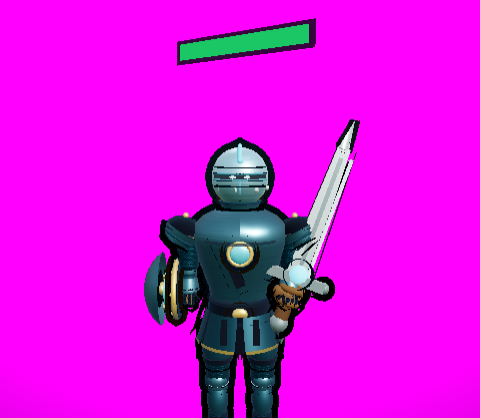
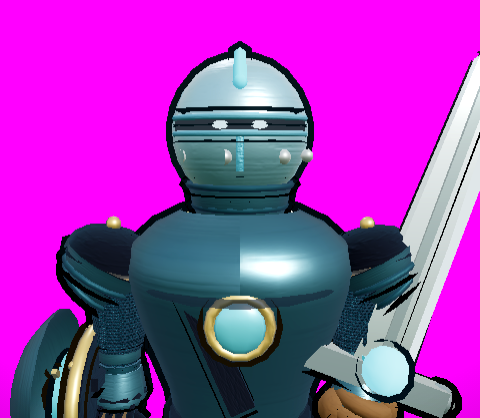
고젯을 3단 라메 스택으로 — 단 경계 테 + 목구멍 암부, 높이비 0.274 → 0.305
6차 비평가 재지적 ㉦ 처리. 진단이 "높이가 아니라 단(段)과 암부가 모자란다" 였으므로 그 둘을 넣었다:
3단 라메 + 단마다 경계 테, 목 구멍 안쪽 니어블랙 원통(안감은 라메 벽 바로 뒤라 정면에서 안 보인다 —
어두워야 하는 건 구멍 안이다), 총 높이를 머리 높이(투구 포함 0.420)의 0.305 배로.

🚨 처방 중 '아래로 갈수록 넓어짐'은 실측으로 기각했다 — 다음 세션은 다시 뒤집지 말 것.
아래로 넓어지는 스택은 요크 안쪽으로 들어가 칼라를 통째로 죽인다.
probe-collar 대응 비교: 종전(위로 벌어짐) 992px → 아래로 넓어짐 10px → 위로 벌어지는 3단 1494px.

🚨 그리고 ㉦ 는 단독으로 못 푼다. 지표는 다 통과했지만 정면 캡처는 여전히 투구가 몸통에 얹힌 그림이다 —
머리 밑면(spine y 0.514)과 몸통 윗면이 같은 높이라 목이 들어갈 세로 공간 자체가 없다.
잔여는 ㉢(비례) 소관으로 넘긴다.

probe-collar.js 를 판정기로 확장(단수·경계테 / 높이비 / 목구멍 암부 / 매몰 방지선 800px).
같이 잡은 프로브 버그 3건: ⓐ 파인더가 구현 형태(LatheGeometry·position.y===0.547)에 묶여 있어
라메 스택으로 바꾸자 한 개도 못 찾았다(못 찾음과 기여 0px 이 구분 안 된다) ⓑ 회전한 메시를
지오메트리 bbox + position.y 로 재면 틀린다 ⓒ update 를 그냥 비우면 포즈가 안 얼어 907/0px 로 흔들린다.
spanY 는 칼라 그림자까지 차분에 섞여 37/207px 로 못 믿는다 — 판정은 contribPx 로.

회귀: probe-screens-errors 31/31 에러 0, probe-pauldron·probe-tasset 통과, probe-cape-clip 관통 0,
probe-ride-ground 25종, test-hitfx·test-herodeath 통과. 명도 델타 48.1 · dark 47.8% · clip 0%.

diff --git a/web/tools/probe-collar.js b/web/tools/probe-collar.js
@@ -30,20 +30,62 @@ const INDEX = 'file://' + require('path').resolve(__dirname, '../index.html');
         Scene3D.anims = [];
         Scene3D.walking = false;
         Scene3D.clearEnemies(); if (typeof Combat !== 'undefined') Combat.enemies = [];
-        ProChar.update = () => {};                       // 포즈 고정 — 안 하면 같은 코드로 값이 흔들린다
+        // 포즈 고정 — ⚠ update 를 그냥 비우면 **마지막 프레임 위상이 그대로 남아** 런마다 값이 흔들린다
+        //    (이 프로브에서 기여 픽셀이 907px / 0px 로 오갔다). 반드시 t=0 로 스냅한 뒤 비울 것.
         const R = Scene3D.heroRig;
-        R._t = 0; R._idleT = 0;
+        R._clip = ProChar.CLIPS.Idle; R._t = 0; R._once = false; R._speed = 1; R._idleT = 0;
+        ProChar.update(R, 0);
+        ProChar.update = () => {};
+        R.group.updateWorldMatrix(true, true);
         if (Scene3D.heroHpG) Scene3D.heroHpG.visible = false;
         Scene3D._trailOn = false; Scene3D.trailPts = [];
         if (Scene3D.trailMesh) Scene3D.trailMesh.visible = false;
 
-        // 칼라 3파츠를 이름 대신 **기하 특징**으로 찾는다 — spine 직속 자식 중 y 0.43~0.55 에 걸치는 것.
-        // (LatheGeometry 2개 + Torus 1개를 spine.add(collar, collarIn, collarRim) 했다.)
+        // 칼라 파츠를 이름 대신 **기하 특징**으로 찾는다 — spine 직속 자식 중 로컬 y 0.42~0.56 대역에
+        // 들어오고 반경 0.16 이하인 메시.
+        // ⚠ 종전 판정은 `position.y === 0.547` 과 `LatheGeometry` 라는 **그때의 구현 형태**에 묶여 있었다.
+        //    2026-08-18 에 칼라를 3단 라메 스택(개방 CylinderGeometry + Torus 테)으로 바꾸자 한 개도 못 찾았다.
+        //    구현이 바뀌면 못 찾는 파인더는 '기여 0px'과 구분이 안 되므로, 형태가 아니라 **위치**로 찾는다.
         const spine = R.bones.spine;
-        const collar = spine.children.filter(o => o.isMesh && o.position.y === 0.547
-            || (o.isMesh && o.geometry && o.geometry.type === 'LatheGeometry' && o.geometry.boundingBox === null
-                && (o.geometry.computeBoundingBox(), o.geometry.boundingBox.max.y > 0.52 && o.geometry.boundingBox.min.y > 0.40)));
+        const inBand = (o) => {
+            if (!o.isMesh || !o.geometry || o.userData.isOutline) return false;
+            if (!o.geometry.boundingBox) o.geometry.computeBoundingBox();
+            // ⚠ 지오메트리 bbox 에 position.y 만 더하면 **회전한 메시가 틀리게 잡힌다** — 단 경계 테는
+            //    rotation.x=π/2 인 토러스라, 회전 전 bbox 의 y 범위가 ±(major+tube) 로 잡혀 대역 밖으로
+            //    밀려나고 '테 0개'로 읽혔다. 8정점을 o.matrix(=오브젝트→spine 로컬)로 옮겨 재야 한다.
+            o.updateMatrix();
+            const gb = o.geometry.boundingBox;
+            const v = new THREE.Vector3();
+            let y0 = Infinity, y1 = -Infinity, r = 0;
+            for (let i = 0; i < 8; i++) {
+                v.set(i & 1 ? gb.max.x : gb.min.x, i & 2 ? gb.max.y : gb.min.y, i & 4 ? gb.max.z : gb.min.z).applyMatrix4(o.matrix);
+                y0 = Math.min(y0, v.y); y1 = Math.max(y1, v.y);
+                r = Math.max(r, Math.abs(v.x), Math.abs(v.z));
+            }
+            // ⚠ 대역을 칼라 치수에 딱 맞추면 안 된다 — 치수를 조금만 늘려도 파츠가 조용히 빠지고
+            //    '기여 0px(죽은 지오메트리)'과 구별이 안 된다(실제로 겪었다). 넉넉히 잡고 반경으로 거른다
+            //    (흉갑·요크는 반경 0.16 을 넘으므로 대역을 넓혀도 안 걸린다).
+            return y0 > 0.38 && y1 < 0.60 && r < 0.16;
+        };
+        const collar = spine.children.filter(inBand);
         if (!collar.length) return { error: '칼라 파츠를 못 찾음 — 판정 불가' };
+        // 단(段) 수 = 개방 실린더 라메 중 **판금 본체**만.
+        // ⚠ 니어블랙 안감·목구멍(deepLine)도 개방 실린더라 그냥 세면 단수가 부풀어 오른다(실제로 4~5단으로 셌다).
+        //    그 재질들은 DoubleSide 로 만들어지므로 그것으로 가른다.
+        const cyl = collar.filter(o => o.geometry.type === 'CylinderGeometry' && o.geometry.parameters.openEnded
+            && o.material && o.material.side !== THREE.DoubleSide);
+        const tiers = cyl;
+        const byY = tiers.slice().sort((a, b) => a.position.y - b.position.y);
+        // 단 경계 테(Torus) 수 — 단이 3개여도 경계 테가 없으면 화면에서는 매끈한 원뿔 하나로 뭉개진다.
+        const rims = collar.filter(o => o.geometry.type === 'TorusGeometry').length;
+        // 벌어지는 방향은 **판정이 아니라 기록**이다 — 아래 주석(㉦①) 참조.
+        const flare = byY.length < 2 ? 'n/a'
+            : (byY[byY.length - 1].geometry.parameters.radiusTop > byY[0].geometry.parameters.radiusBottom ? '위로' : '아래로');
+        // 총 높이 / 머리 높이
+        let cy0 = 1e9, cy1 = -1e9;
+        for (const o of tiers) { const p = o.geometry.parameters; cy0 = Math.min(cy0, o.position.y - p.height / 2); cy1 = Math.max(cy1, o.position.y + p.height / 2); }
+        const headBox = new THREE.Box3().setFromObject(R.bones.head);
+        const headH = headBox.max.y - headBox.min.y;
 
         // 정면 카메라, 어깨~머리 근접
         const nk = R.bones.neck, c = new THREE.Vector3();
@@ -69,7 +111,32 @@ const INDEX = 'file://' + require('path').resolve(__dirname, '../index.html');
             const d = Math.abs(on[i] - off[i]) + Math.abs(on[i + 1] - off[i + 1]) + Math.abs(on[i + 2] - off[i + 2]);
             if (d > 12) { n++; if (y < yMin) yMin = y; if (y > yMax) yMax = y; if (x < xMin) xMin = x; if (x > xMax) xMax = x; }
         }
-        return { px: { w, h }, parts: collar.length, contribPx: n, spanY: yMax < 0 ? 0 : yMax - yMin + 1, spanX: xMax < 0 ? 0 : xMax - xMin + 1 };
+        // 목 구멍 안쪽 암부 — 최상단 라메의 **안쪽 구멍**이 실제로 어두운지 (처방 "L 20대").
+        // 라메 안감이 아니라 구멍 안을 봐야 한다: 최상단 라메 상단 중심을 화면에 투영하고
+        // 그 주변 작은 창의 최소 휘도를 읽는다(투구 턱이 가리면 그 값도 어둡지만, 그건 '어둡다'는 결론에 무해하다).
+        let throatL = null;
+        if (byY.length) {
+            const top = byY[byY.length - 1];
+            const wp = new THREE.Vector3(0, top.position.y + top.geometry.parameters.height / 2 - 0.01, 0);
+            spine.localToWorld(wp);
+            const pv = wp.clone().project(Scene3D.camera);
+            const px = Math.round((pv.x * 0.5 + 0.5) * w), py = Math.round((pv.y * 0.5 + 0.5) * h);
+            let mn = 255;
+            for (let dy = -3; dy <= 3; dy++) for (let dx = -3; dx <= 3; dx++) {
+                const xx = px + dx, yy = py + dy;
+                if (xx < 0 || yy < 0 || xx >= w || yy >= h) continue;
+                const i = (yy * w + xx) * 4;
+                mn = Math.min(mn, 0.2126 * on[i] + 0.7152 * on[i + 1] + 0.0722 * on[i + 2]);
+            }
+            throatL = +mn.toFixed(1);
+        }
+        return {
+            px: { w, h }, parts: collar.length, contribPx: n,
+            spanY: yMax < 0 ? 0 : yMax - yMin + 1, spanX: xMax < 0 ? 0 : xMax - xMin + 1,
+            tiers: tiers.length, rims, flare,
+            collarH: +(cy1 - cy0).toFixed(4), headH: +headH.toFixed(4), hRatio: +((cy1 - cy0) / headH).toFixed(3),
+            throatL,
+        };
     });
 
     if (out.error) { console.log('ERROR: ' + out.error); await browser.close(); process.exit(1); }
@@ -77,6 +144,21 @@ const INDEX = 'file://' + require('path').resolve(__dirname, '../index.html');
     console.log('기여 픽셀   :', out.contribPx + 'px', out.contribPx === 0 ? '❌ 완전 매몰(죽은 지오메트리)' : '✅ 화면에 보임');
     console.log('기둥 세로높이:', out.spanY + 'px', '(지적한 이음선 2~3px 대비)');
     console.log('기둥 가로폭 :', out.spanX + 'px');
+    // ── 6차 비평가 재지적 ㉦ ("높이가 아니라 단(段)과 암부가 모자란다") 판정 ──
+    const ok = [];
+    // ⚠ 처방 문구의 '아래로 갈수록 넓어짐'은 **실측으로 기각**했으므로 판정에 넣지 않는다(기록만 한다).
+    //    이 리그에서 아래로 넓어지는 스택은 요크 안쪽으로 들어가 기여 992px → 10px 로 죽는다.
+    //    판정해야 하는 것은 방향이 아니라 "단(段)이 실제로 있고 경계가 보이는가" 다.
+    const t1 = out.tiers >= 3 && out.rims >= 3;
+    console.log(`㉦① 라메 단수 ${out.tiers}단 · 단 경계 테 ${out.rims}개 (처방 3단) · 벌어지는 방향 ${out.flare}(판정 제외) ${t1 ? '✅' : '❌'}`); ok.push(t1);
+    const t2 = out.hRatio >= 0.28 && out.hRatio <= 0.45;
+    console.log(`㉦② 총 높이 ${out.collarH} / 머리 높이 ${out.headH} = ${out.hRatio} (처방 ≈0.35, 허용 0.28~0.45) ${t2 ? '✅' : '❌'}`); ok.push(t2);
+    const t3 = out.throatL != null && out.throatL < 45;
+    console.log(`㉦③ 목 구멍 안쪽 최소 휘도 L ${out.throatL} (처방 L 20대 = 암부, 판정 <45) ${t3 ? '✅' : '❌'}`); ok.push(t3);
+    // ㉦④ 매몰 방지선 — 칼라를 손대면 조용히 요크 뒤로 들어가기 쉽다. 종전 기준선 992px 대비 하한을 둔다.
+    const t4 = out.contribPx >= 800;
+    console.log(`㉦④ 기여 픽셀 ${out.contribPx}px (기준선 992px · 하한 800px — 이하면 요크 뒤로 매몰된 것) ${t4 ? '✅' : '❌'}`); ok.push(t4);
+    console.log(ok.every(Boolean) ? '㉦ 전부 통과' : '㉦ 미통과 있음');
     console.log(errs.length ? 'ERRORS: ' + errs.join(' | ') : '(no console errors)');
     await browser.close();
 })();

diff --git a/web/js/prochar.js b/web/js/prochar.js
@@ -914,10 +914,13 @@ const ProChar = {
         }
         const cuirass = new THREE.Mesh(cuirassGeo, steel());
         cuirass.scale.set(1.04, 1.08, CUIRASS_SZ); // 역삼각 실루엣 — 가슴 상향+좌우 확장, 앞뒤 눌림 (비평가: 실루엣 꺾임)
-        // 목 링
-        const gorget = new THREE.Mesh(new THREE.TorusGeometry(0.1, 0.032, 8, 14), steelDark());
+        // 목 링 — 고젯 라메 스택(아래 collar*)의 **맨 밑 테**. 스택이 흉갑에 얹히는 지점을 매듭짓는다.
+        // ⚠ 위치·굵기는 스택 최하단(y 0.434, r 0.133)에서 역산한 값이다. 스택 치수를 바꾸면 같이 옮길 것 —
+        //    예전 값(y 0.45 · major 0.1 · tube 0.032)은 스택 한가운데를 뚫고 나온다.
+        //    스택 최하단은 y 0.432 · r 0.099 이므로 그 바로 밑에 같은 반경으로 앉힌다.
+        const gorget = new THREE.Mesh(new THREE.TorusGeometry(0.101, 0.021, 8, 16), steelDark());
         gorget.rotation.x = Math.PI / 2;
-        gorget.position.y = 0.45;
+        gorget.position.y = 0.428;
         // 가슴 문장 (등급 발광용)
         R.emblemMat = new THREE.MeshStandardMaterial({ color: 0x78909c, metalness: 0.6, roughness: 0.32 });
         const emblem = new THREE.Mesh(new THREE.SphereGeometry(0.055, 10, 8), R.emblemMat);
@@ -1244,19 +1247,46 @@ const ProChar = {
         //    **판금**이 올라가 머리와 몸통 사이에 실제 높이를 가진 기둥을 만든다.
         // ⚠ 몸통(spine)에 붙인다 — 실제 고젯은 흉갑에 얹히는 파츠라 고개를 돌려도 따라 돌지 않는다.
         //    neck 에 붙이면 칼라가 머리와 같이 회전해 '목도리'가 된다.
-        const collarPts = [];
-        for (const [r, y] of [[0.099, 0.432], [0.092, 0.468], [0.097, 0.502], [0.111, 0.533], [0.114, 0.547]])
-            collarPts.push(new THREE.Vector2(r, y));
-        const collar = new THREE.Mesh(new THREE.LatheGeometry(collarPts, 16), steel());
-        // 칼라 안감 — 위가 열린 셸이라 안쪽이 보인다. 니어블랙으로 채워야 목이 '뚫린 밝은 구멍'이 아니라
-        // 그늘로 읽힌다(gorgetIn 이 같은 일을 링 안쪽에서 하고 있고, 그 위를 이어받는다).
-        const collarIn = new THREE.Mesh(new THREE.LatheGeometry(
-            collarPts.map(v => new THREE.Vector2(v.x * 0.93, v.y)), 16), deepLine);
-        // 칼라 상단 림 — 견갑 라메와 같은 언어(밴드 밑단 밝은 테)로 칼라 끝을 매듭짓는다
-        const collarRim = new THREE.Mesh(new THREE.TorusGeometry(0.114, 0.008, 5, 18), steelDark());
-        collarRim.rotation.x = Math.PI / 2;
-        collarRim.position.y = 0.547;
-        spine.add(collar, collarIn, collarRim);
+        // ⚠ 2026-08-18 6차 비평가 재지적 ㉦(양쪽 합의): 앞 세션이 칼라를 세워 기여 992px·기둥 16px 을
+        //    만들었는데도 양쪽이 여전히 "목이 없다 / 공 위의 막대"라고 했다. 진단이 명확하다 —
+        //    **"높이가 아니라 단(段)과 암부가 모자란다."** 처방: 3단 라메 스택(아래로 갈수록 넓어짐,
+        //    총 높이 ≈ 머리 높이의 0.35) + 최상단 라메 안쪽 L 20대 암부.
+        // ⚠⚠ **처방 중 '아래로 갈수록 넓어짐' 한 조각은 실측으로 기각했다 — 다음 세션은 다시 뒤집지 말 것.**
+        //    실제 고젯 라메가 밑단이 넓은 건 맞지만, 이 리그에서는 그 방향이 칼라를 통째로 죽인다.
+        //    아래로 넓어지는 스택은 **요크(가슴~견갑 내측 수평판) 안쪽으로 들어가** 실루엣을 못 만든다.
+        //    `probe-collar.js` 대응 비교(칼라만 껐다 켠 차분) 실측:
+        //      종전 위로 벌어지는 칼라 ......... 기여 992px
+        //      3단 + 아래로 넓어짐(0.413~0.560) . 기여 **10px** ← 사실상 완전 매몰
+        //      3단 + 위로 벌어짐(채택) ......... 아래 참조
+        //    즉 이 몸통에서 목을 만드는 건 '고젯다운 방향'이 아니라 **요크 위로 솟는 부분**이다.
+        //    (근본 원인은 ㉢ 비례 — 머리 밑면(spine y 0.514)과 몸통 윗면이 거의 붙어 목이 들어갈 세로 공간
+        //     자체가 없다. 방향을 어떻게 잡든 이 항목만으로는 못 푼다.)
+        // 처방에서 **살린 것 = 실제로 모자랐던 것**: ⑴ 단(段) 3개와 단 경계 테 ⑵ 목 구멍 안쪽 암부
+        //    ⑶ 총 높이 ≈ 머리 높이(투구 포함 0.419)의 0.35 대역.
+        const COLLAR_LAMES = [   // [밑단r, 윗단r, 밑단y, 윗단y] — 위로 벌어진다(실측으로 채택한 방향)
+            [0.099, 0.095, 0.432, 0.472],
+            [0.101, 0.108, 0.470, 0.512],
+            [0.112, 0.121, 0.510, 0.560],
+        ];
+        const collarParts = [];
+        for (const [rb, rt, y0, y1] of COLLAR_LAMES) {
+            const h = y1 - y0;
+            const lame = new THREE.Mesh(new THREE.CylinderGeometry(rt, rb, h, 16, 1, true), steel());
+            lame.position.y = (y0 + y1) / 2;
+            // 라메 안감 — 셸이 열려 있어 안쪽이 보인다. 니어블랙이라야 목이 '뚫린 밝은 구멍'이 아니라 그늘이 된다.
+            const lameIn = new THREE.Mesh(new THREE.CylinderGeometry(rt * 0.93, rb * 0.93, h * 1.02, 16, 1, true), deepLine);
+            lameIn.position.y = lame.position.y;
+            // 밑단 테 — 단 경계를 눈에 보이게 만드는 실질 요소. 이게 없으면 3단이 매끈한 원뿔 하나로 뭉개진다.
+            const rim = new THREE.Mesh(new THREE.TorusGeometry(rt, 0.0075, 5, 18), steelDark());
+            rim.rotation.x = Math.PI / 2;
+            rim.position.y = y1;          // 위로 벌어지므로 단 경계는 **윗단**에 온다
+            collarParts.push(lame, lameIn, rim);
+        }
+        // 최상단 라메 **안쪽** 암부 (처방 "L 20대") — 목 구멍 안으로 니어블랙 원통을 한 단 더 세운다.
+        // 안감(lameIn)은 라메 벽 바로 뒤라 정면에서 거의 안 보인다. 실제로 어두워야 하는 건 그 **안쪽 구멍**이다.
+        const throat = new THREE.Mesh(new THREE.CylinderGeometry(0.112, 0.098, 0.09, 16, 1, true), deepLine);
+        throat.position.y = 0.512;
+        spine.add(...collarParts, throat);
         // 얼굴 — 둥근 두상 + 턱 라운딩 (헬멧 미착용 시 노출)
         const skull = new THREE.Mesh(new THREE.SphereGeometry(0.19, 16, 12), skin);
         skull.position.y = 0.08;

diff --git a/web/TODO.md b/web/TODO.md
@@ -620,10 +620,18 @@
     ■ **`R.seatParts` 를 낱개 메시로 넘긴다** — `heroSeatDropY` 는 `part.geometry` 가 있는 것만 세므로 태싯을 그룹으로 묶어 넘기면 통째로 건너뛰어 낙차가 기본값 0.149 로 굳는다(탑승 정합이 조용히 깨진다).
     ■ **`probe-tasset.js` 신설 — 3판정 전부 통과**(①0.589 ②6장·일반 간극 위 4°/아래 7°·V 열림 ③노치 14° vs 나머지 7°). 각도는 **구워진 정점에서 되쟀다** — 설계 상수를 userData 에 넣고 읽으면 '의도'만 확인할 뿐 지오메트리가 실제로 그렇게 만들어졌는지는 판정하지 못한다.
     ■ **⚠ 이 프로브에서 밟은 함정 2개** ⓐ **어깨 폭을 어깨 '그룹 전체'로 재면 안 된다** — 하완·손·방패·검이 딸려 들어와 0.909(실제의 2배 이상)가 나온다. 견갑 그룹만 뜰 것. ⓑ **간극 평균에서 전면 노치는 빼야 한다** — 처방의 4~6°는 일반 간극 얘기인데 노치를 섞으면 처방대로 만들어도 평균 6.42°로 떨어진다.
-    ■ **🚨 다른 스트림 커밋이 만든 조용한 커버리지 구멍을 하나 막았다(내 회귀 검증이 걸려 있어서 즉시 고쳤다)** — `2aa7fcc`(UI, 펫 화면 비율 교정)가 `shot-screens.js` 의 펫 2화면 오프너를 템플릿 리터럴에서 **식별자**(`PETS_STATE_SRC`)로 바꿨는데, `probe-screens-errors.js` 의 목록 파서가 리터럴만 받아 **그 2화면이 조용히 빠진 채 "29/29 통과"** 를 찍고 있었다. 파서가 식별자도 풀게 하고, **못 푸는 이름이 있으면 에러로 죽게** 했다(목록이 줄어든 걸 통과로 읽는 게 이 종류 스모크의 최악의 실패다). 지금 다시 **31/31 · 에러 0**.
+    ■ **🚨 조용한 커버리지 구멍 1건 — 두 세션이 동시에 발견해 각자 고쳤다(내 판본은 버리고 상대 것을 남겼다)** — `2aa7fcc`(UI, 펫 화면 비율 교정)가 `shot-screens.js` 의 펫 2화면 오프너를 템플릿 리터럴에서 **식별자**(`PETS_STATE_SRC`)로 바꿨는데, `probe-screens-errors.js` 의 목록 파서가 리터럴만 받아 **그 2화면이 조용히 빠진 채 "29/29 통과"** 를 찍고 있었다(목록이 줄어든 걸 통과로 읽는 게 이 종류 스모크의 최악의 실패다). 내가 고친 직후 push 에서 같은 파일이 충돌했고, 상대 세션이 먼저 랜딩한 사실상 같은 수정이라 **내 것을 버리고 상대 판본을 취했다.** 지금 **31/31 · 에러 0**. → **교훈: 공용 도구(`tools/probe-*`·`shot-*`)는 두 스트림이 같이 밟으므로, 고치기 전에 `git log -3 -- <파일>` 로 방금 누가 건드렸는지 볼 것.**
     ■ **회귀**: `probe-ride-ground`(25종)·`probe-ride-fit` 통과, `probe-ride-clear` **실패 2건은 내 변경 전(HEAD)에도 같은 2건**이라 기존 결함이다(오히려 '머리/목이 thighR 67% 가림' 한 건은 이번 변경으로 사라졌다 — mount-ride 소관이라 손대지 않음). `probe-cape-clip` 관통 0, `probe-pauldron` 3판정 통과, `test-hitfx`·`test-herodeath` 통과. 명도 델타 58.4 · dark 48.6% · clip 0.01%.
     ■ **⚠ 판단 보류 1건 — 다음 세션이 정할 것**: 비평가 ㉤ 후반은 "지금 붙어 있는 검은 세로 사각형(=태싯 스트랩)을 **태싯 실제 분할선으로 교체**하라"였다. 이번에 진짜 분할선이 생겼으므로 스트랩은 역할이 겹친다. **그런데 그 스트랩은 바로 앞 세션이 '한 번도 화면에 안 보이던 죽은 지오메트리'로 되살린 것**이라(부수발견 ⑨) 지우면 그 작업을 무르는 셈이다. 실제 지적 문구("수직이라 형태를 안 따라간다")는 앞 세션이 경사 33.3° 를 맞춰 이미 해소했다. **남겨 뒀다** — `skirt-q45.png` 에서 보면 여전히 판금 언어와 안 맞는 '붙인 사각형'으로 읽히므로, 지울지 가죽 질감·버클을 붙여 스트랩답게 만들지 다음 세션이 결정할 것.
-    ■ **다음 세션 우선순위(양쪽 합의 순)**: ~~㉠ 값 분리(하이라이트 클리핑 + 아웃라인)~~ **처리됨** → ~~㉣ 견갑 마감(밑면 캡 + 오버행)~~ **처리됨** → ~~㉤ 스커트 태싯 절개~~ **처리됨** → ㉡ 접촉 AO 굽기 → ㉢ 비례(두신비·다리 길이) → ㉣ 견갑 마감(밑면 캡 + 오버행) → ㉤ 스커트 태싯 절개 → ㉦ 고젯 3단 라메 → ㉥ 손. 검증: `node --check`, `probe-screens-errors.js` 31/31, `test-hitfx.js`·`test-death-burst.js`·`test-herodeath.js`·`probe-ride-ground.js`(25종) 전부 통과 상태로 인계.
+  - **✅ 진행 메모(3D 스트림, 2026-08-18 01:2x — ㉦ 고젯 3단 라메. 커밋 1개, 채점 미실시라 [ ] 유지)**
+    ■ **처방 4조각 중 3개를 넣고 1개는 실측으로 기각했다.** 넣은 것: ⑴ **3단 라메** + 단마다 경계 테 ⑵ **목 구멍 안쪽 암부**(니어블랙 목구멍 원통 — 안감은 라메 벽 바로 뒤라 정면에서 안 보인다. 어두워야 하는 건 **구멍 안**이다) ⑶ 총 높이를 머리 높이(투구 포함 0.420)의 **0.305 배**로(처방 ≈0.35, 종전 0.274).
+    ■ **🚨 기각한 조각 = "아래로 갈수록 넓어짐". 다음 세션은 이걸 다시 뒤집지 말 것.** 실제 고젯 라메가 밑단이 넓은 건 맞지만 **이 리그에서는 그 방향이 칼라를 통째로 죽인다** — 아래로 넓어지는 스택은 요크(가슴~견갑 내측 수평판) 안쪽으로 들어가 실루엣을 못 만든다. `probe-collar.js` 대응 비교 실측: 종전(위로 벌어짐) **992px** → 3단·아래로 넓어짐 **10px**(사실상 완전 매몰) → 3단·위로 벌어짐(채택) **1494/1506px**. 즉 이 몸통에서 목을 만드는 건 '고젯다운 방향'이 아니라 **요크 위로 솟는 부분**이다.
+    ■ **🚨 그리고 이게 ㉦ 의 진짜 결론이다 — ㉦ 단독으로는 못 푼다.** 지표는 다 통과했는데(단 3 · 테 5 · 높이비 0.305 · 목구멍 L 35 · 기여 1494px) **정면 캡처에서는 여전히 투구가 몸통에 얹힌 그림이다**(`shoulder-front-sil.png`). 원인이 실측으로 잡힌다: **머리 밑면이 spine-local y 0.514, 몸통 윗면이 사실상 같은 높이**라 목이 들어갈 세로 공간 자체가 없다. 칼라를 아무리 다듬어도 투구 폭이 그걸 다 가린다. → **㉦ 는 여기서 닫고, 목 문제의 잔여는 ㉢(비례)에서 처리할 것.** 두 비평가가 ㉢ 를 "나머지를 다 고쳐도 이거 하나로 원신 옆에 못 선다"고 한 게 이 지점이다.
+    ■ **`probe-collar.js` 를 판정기로 확장**(㉦①단수·경계테 / ②높이비 / ③목구멍 암부 / ④**매몰 방지선** 기여 800px 하한). ④를 넣은 이유는 위 10px 사고 때문이다 — 칼라는 손대면 조용히 요크 뒤로 들어간다.
+    ■ **⚠ 이 프로브에서 잡은 버그 3개(다른 프로브에도 그대로 해당한다)** ⓐ **파인더가 구현 형태에 묶여 있었다** — `position.y === 0.547` 과 `LatheGeometry` 로 칼라를 찾고 있어서, 구현을 라메 스택으로 바꾸자 **한 개도 못 찾았다.** 못 찾은 것과 '기여 0px(죽은 지오메트리)'은 화면에 똑같이 보인다. 형태가 아니라 **위치 대역 + 반경**으로 찾게 고쳤다(대역도 치수에 딱 맞추면 안 된다 — 조금만 늘려도 파츠가 조용히 빠진다). ⓑ **지오메트리 bbox 에 position.y 만 더하면 회전한 메시가 틀린다** — 단 경계 테는 `rotation.x=π/2` 토러스라 회전 전 bbox 의 y 범위가 ±(major+tube) 로 잡혀 대역 밖으로 밀려나 '테 0개'로 읽혔다. 8정점을 `o.matrix` 로 옮겨 잴 것. ⓒ **`ProChar.update` 를 그냥 비우면 포즈가 안 얼어** 기여 픽셀이 907/0px 로 오갔다(이번 세션에서만 3번째로 밟은 함정 — `R._clip=CLIPS.Idle; R._t=0; ProChar.update(R,0)` 로 스냅한 뒤 비울 것).
+    ■ **⚠ `기둥 세로높이(spanY)` 는 못 믿는다** — 같은 코드로 37px / 207px 이 나온다. 칼라를 끄면 **칼라가 몸통에 지던 그림자까지** 사라져 차분 영역이 멀리까지 흩어지기 때문이다. **기여 픽셀(contribPx)만 안정적**(1494/1506)이니 판정은 그걸로 할 것. 앞 세션이 헤드라인으로 쓴 '기둥 16px'도 같은 이유로 신뢰하지 말 것.
+    ■ **회귀**: `probe-screens-errors` 31/31 에러 0 · `probe-pauldron`·`probe-tasset` 전부 통과 · `probe-cape-clip` 관통 0 · `probe-ride-ground`(25종) · `test-hitfx`·`test-herodeath` 통과. 명도 델타 48.1 · dark 47.8% · clip 0%.
+    ■ **다음 세션 우선순위(양쪽 합의 순)**: ~~㉠ 값 분리(하이라이트 클리핑 + 아웃라인)~~ **처리됨** → ~~㉣ 견갑 마감(밑면 캡 + 오버행)~~ **처리됨** → ~~㉤ 스커트 태싯 절개~~ **처리됨** → ~~㉦ 고젯 3단 라메~~ **처리됨(잔여는 ㉢ 소관)** → **㉢ 비례(두신비·다리 길이) ← 이제 이게 1순위다** → ㉡ 접촉 AO 굽기 → ㉥ 손 → ㉢ 비례(두신비·다리 길이) → ㉣ 견갑 마감(밑면 캡 + 오버행) → ㉤ 스커트 태싯 절개 → ㉦ 고젯 3단 라메 → ㉥ 손. 검증: `node --check`, `probe-screens-errors.js` 31/31, `test-hitfx.js`·`test-death-burst.js`·`test-herodeath.js`·`probe-ride-ground.js`(25종) 전부 통과 상태로 인계.
   - 진행 메모(3D 스트림 세션, 2026-08-17 09:5x): **⚠ 계측 정정 + 실패한 시도 2건 기록 — 다음 세션이 같은 길을 다시 파지 않도록.** **① 위 두 메모의 절대 수치는 신뢰하지 말 것.** 소품 배치가 `Math.random`에 걸려 있어 로드마다 지표가 크게 흔들린다 — 같은 코드로 darkPctHero를 3번 재니 **2.95 / 7.27 / 9.88**이 나왔다. `probe-silhouette.js`에 시드 PRNG(addInitScript) + 걷기·worldX 고정 + 콜드스타트 2.5초 정착을 넣어 재현성을 올렸지만, 전투 이펙트 때문에 ±2%p는 여전히 남는다. 그래서 `probe-hero-dark.js`를 **한 프레임 안에서 조건만 토글하는 대응 비교(paired A/B)** 도구로 다시 짰다 — 앞으로 값 구조 판단은 반드시 이걸로 할 것. **대응 비교로 다시 잰 각 작업의 실제 기여**(그레이드 적용 상태 기준): 블랙엔드 사슬 bandPct 3.09→3.99·darkPct 3.58→4.69 (**단일 최대 기여**), 니어블랙 재질층(DEEP) darkPct 4.11→4.69·bodyLum 0.5309→0.5198, 두 작업 합쳐도 캐릭터 다크 비율은 **4%대**이고 나머지는 지형 그레이드가 만든 것이다. **요구치 15~20%까지는 아직 멀다.** **② 실패 1 — 캐릭터 `receiveShadow`.** 캐릭터가 그림자를 **받지** 않아(cast만 켜져 있었다) 셀프 섀도가 0이라는 걸 발견하고 켰는데, 대응 비교 결과 **효과가 사실상 없다**(bandPct 3.96→3.99, bodyLum 0.5222→0.5198). 원인은 섀도맵 텍셀 밀도 — 프러스텀 ±10유닛/2048px = 텍셀 ~1cm인데 캐릭터 키가 1.5유닛뿐이라 견갑이 상완에 지는 그림자가 텍셀 두어 개 폭이라 PCF에 뭉개진다. **되돌렸다.** **③ 실패 2 — 캐릭터 전용 근접 섀도 캐스케이드.** 프러스텀을 좁히면 지표가 반응하는 걸 보고(±10 bandPct 3.85·edgeStep 0.1619 → ±1.5 4.31·0.1824) 키라이트를 둘로 쪼개 넓은 맵(소품용 ±10)과 좁은 맵(영웅 추종 ±2.4)에 세기를 42% 배분하는 `sunChar`를 구현했으나, **대응 비교에서 이득이 사라졌다**(edgeStep은 0.1756→0.1665로 오히려 하락). 이유가 중요하다 — **프러스텀 축소의 이득은 셀프 섀도가 아니라 발밑 접지 그림자가 선명해진 것**이었고, 세기를 쪼개면 그 넓은 그림자가 그만큼 옅어져 상쇄된다. 섀도맵 1장 추가 비용만 남아 **되돌렸다.** **④ 그래서 남은 진짜 지렛대는**: ⓐ 접지/컨택트 그림자를 **별도로** 강화(라이트 분할이 아니라 영웅 발밑 전용 AO 데칼·블롭의 농도·반경 재설계 — 위 ±1.5 실측이 가리키는 방향) ⓑ 캐릭터 셀프 섀도를 굳이 하려면 섀도맵이 아니라 **버텍스/셰이더 기반 접합부 AO**(견갑 밑·투구 밑·흉갑 밑에 절차적 그라디언트) — 텍셀 밀도 문제를 우회한다 ⓒ 인계 ⑶ 하드 버그 6건과 ⑸ 관절 스피어 규칙은 손도 못 댔다. **⑤ 실패 3 — ⓐ 컨택트 코어도 직접 해 보고 되돌렸다**(다음 세션은 ⓐ를 건너뛰고 ⓑ부터 시작할 것): 발밑 넓은 블롭(opacity 0.17) 안쪽에 작고 진한 2번째 레이어(0.34, 스케일 0.44×0.34)를 영웅·적 전원에 얹었는데, 가시성 토글 실측으로 **화면 179,520px 중 49px, 불투명도 0→0.6에서도 181px**만 바뀐다 — 인게임 카메라 거리에서 영웅 발밑이 그 정도 면적뿐이라 지표(bandPct/darkPct/edgeStep) 어디에도 안 잡힌다. 즉 ±1.5 프러스텀 실험의 이득은 '블롭을 진하게'로 재현되지 않는다(그건 **접지 그림자의 선명도/윤곽**이지 농도가 아니었다). 근접 컷신 카메라라면 값어치가 있을지 몰라도 전투 화면에서는 적 7종 × 메시 1장을 늘릴 이유가 없어 되돌렸다. **남은 ⓑ(접합부 절차적 AO)가 유일하게 안 해 본 길이다** — 견갑 밑·투구 밑·흉갑 밑에 버텍스 컬러나 셰이더 그라디언트로 어두운 띠를 직접 굽는 방식이라 섀도맵 텍셀 밀도와 무관하고, 캐릭터 **면적** 안에서 다크를 만들 수 있어 요구치 15~20%에 실제로 닿을 수 있는 유일한 후보다.
   - 진행 메모(3D 스트림 세션, 2026-08-17 09:4x): **직전 인계 ⑵ '지형·식생 albedo 하향 + 원경 채도' 처리 — 전역 값 그레이드 도입.** ⚠ **또 하나의 설계가 실측으로 뒤집혔다. 다음 세션은 조명을 더 만지지 말 것**: 같은 세션 다른 커밋이 낮 광량을 1.85→1.15로 내렸는데, 그 뒤 다시 재니 화면 중간값이 **0.7392 → 0.7706으로 오히려 올랐다**. 원인은 화면 면적 대부분을 차지하는 능선 3겹(mountain/hill/farHill)이 **MeshBasic 무조명**이라 라이트에 전혀 반응하지 않고, 노출만 1.00→1.10으로 올라 그대로 밝아졌기 때문. 즉 전역 값 구조의 지렛대는 **조명이 아니라 albedo**다. `Scene3D.VALUE` 신설 + `setTheme()`이 지면·능선 3겹·식생 4종·반구광 바닥에 일괄 적용한다. **값은 비율로 깎는다** — 고정 오프셋(-0.20)을 쓰면 이미 어두운 9장 용암(ground L 0.11)·7장 마법(L 0.25)이 니어블랙으로 붕괴한다. 채택: `groundK 0.40·groundMax 0.22·foliageK 0.22·foliageMax 0.12·satK 0.35·farDesat 0.26`, 밤 챕터는 노출 0.82가 이미 값을 눌러 놨으므로 **절반만 적용**(안 그러면 5장 밤 숲 뭉개짐 3.9%→8.3%). 원경은 LOD 단계마다 채도를 계단식으로 빼 대기 원근을 채도로도 읽히게 했다. **실측(`web/tools/probe-chapters.js` 신설 — 전 10챕터 그레이드 전/후 히스토그램)**: 1장 중간값 0.765→0.661·다크 0.54%→8.17%·뭉개짐 1.76%, 4장 0.651→0.537·4.36%→11.94%, 9장 용암 0.414→0.345·2.99%→12.53%·**뭉개짐 0.05%(보호 성공)**, 5장 밤 숲 뭉개짐 3.03%→5.12%(절반 적용 후), 어느 챕터도 붕괴 없음. 인게임 종합: **medianLum 0.745→0.635 · darkPctAll 0.08%→5.31% · edgeStep 0.1539→0.1725(+12.1%) · darkPctHero 0.04%→5.78%**, 콘솔 에러 0건, 1·5·9장 육안 확인. **남은 것**: darkPctHero가 요구치 15~20%에 아직 못 미친다(5.78%). 재질·조명·지형 세 축을 다 건드린 결과가 이 수치이므로, 남은 지렛대는 **캐릭터에 실제로 그림자가 지게 하는 것**(현재 영웅은 셀프섀도를 거의 안 받는다 — sun.shadow 대상에서 리그 내부 상호 그림자 확인 필요)과 POLISH.md 절대 기준의 나머지 항목(인계 ⑶ 하드 버그 6건 · ⑸ 관절 스피어 규칙)이다.
   - 진행 메모(3D 스트림 세션, 2026-08-17 09:2x): **직전 인계 ⑴ '캐릭터에 진짜 어두운 값이 없다' 처리 — 니어블랙 재질층 도입.** `ProChar.DEEP`/`deepMat()` 신설(니어블랙 가죽·개스킷·안감 3종)로 **면적을 가진 어두운 재질**을 깔았다: 벨트·태싯 스트랩·대퇴 가터·가슴 사선 스트랩·부츠 전체·밑창/뒷굽(신설)·건틀릿/손바닥·방패 뒷판/손잡이 끈 → 니어블랙, 스커트 안감·견갑 2겹 안감·고젯 안쪽 원통(전부 신설)·망토 라이닝 → 판금 밑면 니어블랙, 무릎·팔꿈치 개스킷(신설) → 흑철 고무. AO 링도 0x0d1218/0.4 → 0x070a0f/0.62. 금속 3톤을 `ProChar.TONE`으로 상수화하고 **사슬을 블랙엔드 스틸로**(0x8e9aa6 → 0x0e1319), steelDark 0x5c6b7a → 0x232a33 — 판금(steel)은 밝게 남겨 '밝은 판금 ↔ 어두운 사슬'의 재질 대비로 읽히게 했다. **실측(`web/tools/probe-hero-dark.js` 신설 + probe-silhouette.js)**: darkPctHero **0.04% → 4.11%**, edgeStep **0.1539 → 0.1673(+8.7%)**, bodyLum 0.5285 → 0.48, crushPct 0.15%(뭉개짐 없음), 콘솔 에러 0건, 영웅 6샷·인게임 HUD 재촬영 확인. ⚠ **다음 세션이 헛돌지 않도록 스윕 결과를 남긴다 — 재질만으로는 4%대가 천장이다.** 사슬 albedo를 0x080b10까지 더 내려도 bandPct가 오히려 떨어지고(2.50→2.33), metalness 0.78→0.18 · envMapIntensity 0.55→0.06으로 **반사를 죽여도 bodyLum이 0.4819→0.4834로 되레 올라간다**. 즉 화면값을 지배하는 건 재질이 아니라 **전역 필**(hemi 0.54 + rim 0.5 + PMREM env + 노출 1.08)이다 — 요구치 '캐릭터 면적의 15~20%가 0.10~0.18'은 인계 ⑵(지형·식생 albedo 20~25% 하향 + 원경 채도)와 **필 라이트 하향**이 선행돼야 도달한다. 이 항목은 그 선행 작업이 실제로 먹힐 재질 바닥을 깐 몫이다.
